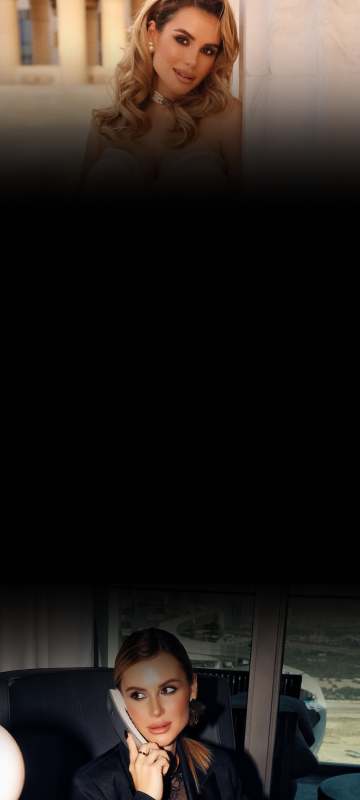
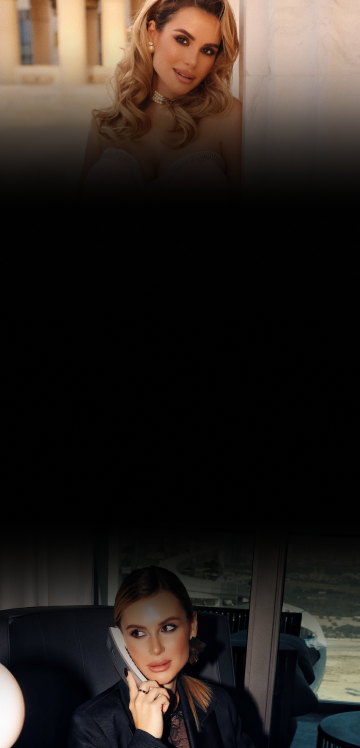
asss

diff --git a/css/app.min.css b/css/app.min.css
@@ -147,7 +147,7 @@
     .cover::before {
         content: "";
         background-image: url(../img/1st-mob.png);
-        height: 100vh;
+        height: 100%;
     }
     .cover-body {
         padding-top: 14rem;
